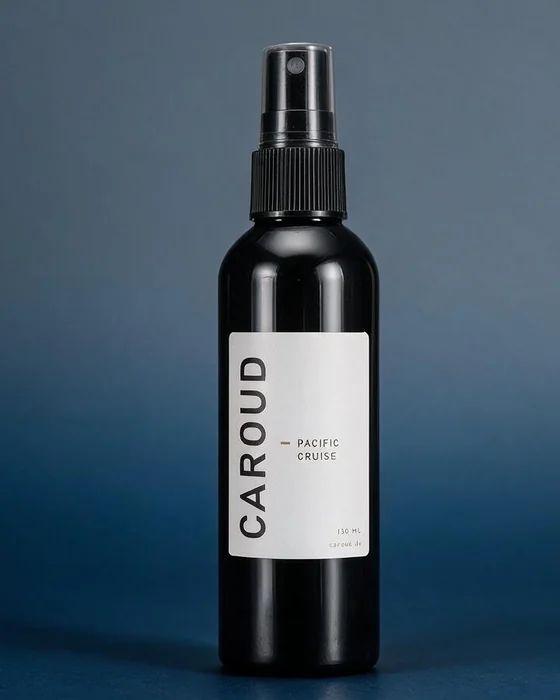
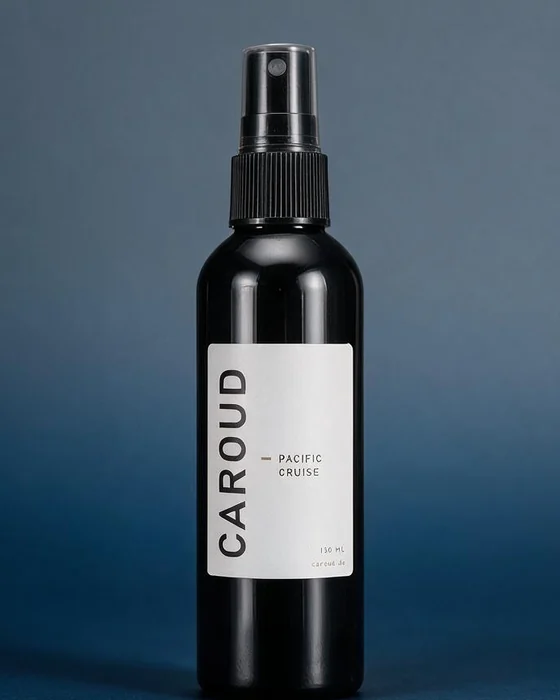
Echte Fotos in allen sieben Duft-Karten, Flaschenkoepfe auf einer Linie (v59)
Claude-Session: https://claude.ai/code/session_01FWAFBrrQYUhS2XwshSf5J4

Changed region(s): [[0.1518, 0.06, 0.6982, 1.0], [0.6982, 0.96, 0.7589, 0.99]]

diff --git a/js/products.js b/js/products.js
@@ -15,7 +15,7 @@
 // Bilder: die gedruckten Etiketten, gerendert aus den Druck-PDFs
 // (img/produkte/<typ>-<duft>.webp). Ohne img zeichnet main.js die Ersatzgrafik.
 // Version an Bild-URLs, damit Browser nach Etikett-Updates nicht alte Bilder aus dem Cache zeigen
-const ASSET_V = "46";
+const ASSET_V = "47";
 
 const CATEGORIES = [
   { name: "Duftsprays", type: "spray", color: "#111111", img: "img/produkte/spray-pacific-cruise.webp?v=" + ASSET_V },
@@ -116,7 +116,7 @@ const FOTO_LINIEN = ["spray", "haenger"];
 const VIDEO_LINIEN = ["haenger"];
 // Düfte mit eigenem Foto für die Karten "Sieben Düfte" (img/duefte/<duft>.webp).
 // Sobald alle Fotos da sind, einfach die weiteren Düfte hier eintragen.
-const DUFT_FOTOS = ["pacific-cruise"];
+const DUFT_FOTOS = ["pacific-cruise", "erba-carbon", "fast-cherry", "driveination", "naxnos-asphalt", "ombre-apex", "erba-tuned"];
 // Linien mit zweitem Produktfoto (Stimmungsbild) – Dateiname <linie>-<duft>-2.webp
 const FOTO2_LINIEN = ["spray"];
 

diff --git a/index.html b/index.html
@@ -539,7 +539,7 @@
   <!-- Toast -->
   <div class="toast" id="toast" hidden></div>
 
-  <script src="js/products.js?v=57"></script>
+  <script src="js/products.js?v=59"></script>
   <script src="js/main.js?v=57"></script>
 </body>
 </html>
